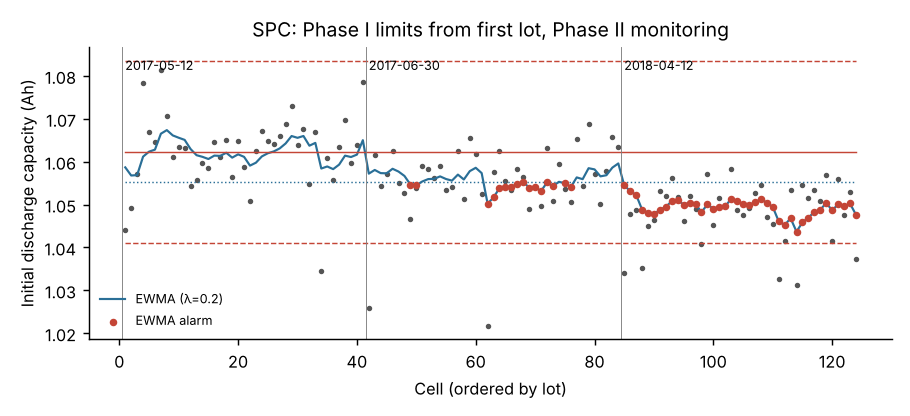
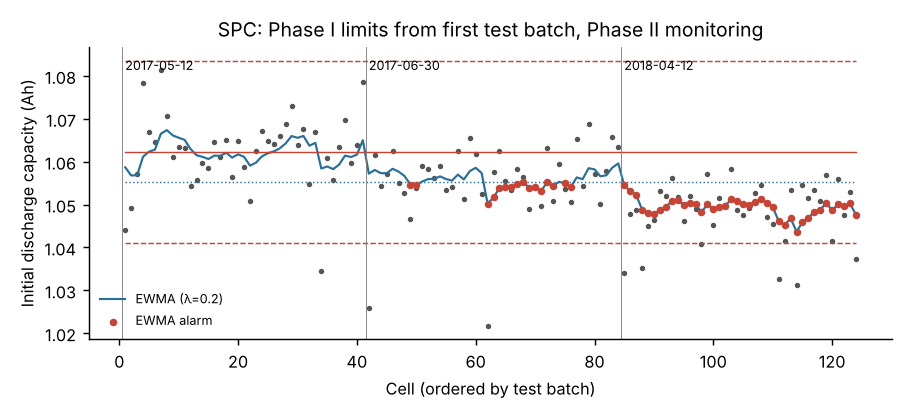
Label cell groups as test batches, not production lots; mark alerting as offline analysis
Claude-Session: https://claude.ai/code/session_01FcKu9sfcQejhM5tvu2SN5i

Changed region(s): [[0.2462, 0.0312, 0.8615, 0.0938], [0.4308, 0.9062, 0.6462, 0.9688]]

diff --git a/src/04_figures_and_tableau.py b/src/04_figures_and_tableau.py
@@ -8,11 +8,11 @@ plt.rcParams.update({"figure.dpi":130,"axes.spines.top":False,"axes.spines.right
 fig,ax=plt.subplots(figsize=(6,4))
 for (lot,g),col in zip(d.groupby("lot"),["#2a6f97","#c44536","#5b8c5a"]):
     x=np.sort(g.cycle_life.values); n=len(x); F=(np.arange(1,n+1)-0.3)/(n+0.4)
-    ax.scatter(np.log(x),np.log(-np.log(1-F)),s=12,color=col,label=f"Lot {lot} (n={n})")
+    ax.scatter(np.log(x),np.log(-np.log(1-F)),s=12,color=col,label=f"Test batch {lot} (n={n})")
     r=wb[wb.lot==lot].iloc[0]; xx=np.linspace(x.min(),x.max(),50)
     ax.plot(np.log(xx),r.shape_beta*(np.log(xx)-np.log(r.scale_eta)),color=col,lw=1)
 ax.axhline(np.log(-np.log(0.9)),ls=":",c="grey"); ax.text(np.log(150),np.log(-np.log(0.9))+0.1,"B10",color="grey")
-ax.set_xlabel("ln(cycles to 80% capacity)"); ax.set_ylabel("ln(-ln(1-F))"); ax.set_title("Weibull probability plot by production lot"); ax.legend(frameon=False)
+ax.set_xlabel("ln(cycles to 80% capacity)"); ax.set_ylabel("ln(-ln(1-F))"); ax.set_title("Weibull probability plot by test batch"); ax.legend(frameon=False)
 fig.tight_layout(); fig.savefig("outputs/figures/weibull_by_lot.png")
 # 2 SPC chart q2
 fig,ax=plt.subplots(figsize=(7,3.2)); s=spc[spc.metric=="q2"]
@@ -21,7 +21,7 @@ for k,ls in [("UCL","--"),("LCL","--"),("CL","-")]: ax.plot(s.seq,s[k],c="#c4453
 ax.plot(s.seq,s.ewma_LCL,c="#2a6f97",ls=":",lw=.8)
 al_=s[s.ewma_alarm==1]; ax.scatter(al_.seq,al_.ewma,c="#c44536",s=10,zorder=3,label="EWMA alarm")
 for lot,g in s.groupby("lot"): ax.axvline(g.seq.min()-.5,c="grey",lw=.5); ax.text(g.seq.min(),s.value.max(),lot,fontsize=7)
-ax.set_ylabel("Initial discharge capacity (Ah)"); ax.set_xlabel("Cell (ordered by lot)"); ax.set_title("SPC: Phase I limits from first lot, Phase II monitoring"); ax.legend(frameon=False,fontsize=7,loc="lower left")
+ax.set_ylabel("Initial discharge capacity (Ah)"); ax.set_xlabel("Cell (ordered by test batch)"); ax.set_title("SPC: Phase I limits from first test batch, Phase II monitoring"); ax.legend(frameon=False,fontsize=7,loc="lower left")
 fig.tight_layout(); fig.savefig("outputs/figures/spc_initial_capacity.png")
 # 3 DOE interaction: cycle life vs Q1 by C1 band
 fig,ax=plt.subplots(figsize=(6,4)); d["C1_band"]=pd.cut(d.C1,[0,4.5,5.5,9],labels=["C1 ≤ 4.5C","4.5–5.5C","> 5.5C"])

diff --git a/README.md b/README.md
@@ -2,28 +2,28 @@
 
 Reliability engineering on two public, real-world data sources:
 
-1. **Cell-level life data**: 124 commercial LFP/graphite cells (A123 APR18650M1A) cycled to failure under 68 fast-charging policies across 3 production/test lots. Source: Severson et al., *Nature Energy* 2019. Per-cell capacity arrays, cycle lives and SI Table 9 (barcode, lot, policy) come from the co-author's public repo [petermattia/revisit-severson-et-al](https://github.com/petermattia/revisit-severson-et-al) (commit `3a77c7d`). Those files were exported from the original [data.matr.io](https://data.matr.io/1/projects/5c48dd2bc625d700019f3204) release.
+1. **Cell-level life data**: 124 commercial LFP/graphite cells (A123 APR18650M1A) cycled to failure under 68 fast-charging policies across 3 test batches (the dataset's `lot` column). Source: Severson et al., *Nature Energy* 2019. Per-cell capacity arrays, cycle lives and SI Table 9 (barcode, batch date, policy) come from the co-author's public repo [petermattia/revisit-severson-et-al](https://github.com/petermattia/revisit-severson-et-al) (commit `3a77c7d`). Those files were exported from the original [data.matr.io](https://data.matr.io/1/projects/5c48dd2bc625d700019f3204) release.
 2. **Field data**: 11,051 NHTSA consumer complaints and 272 recall records for 6 EV nameplates (Chevrolet Bolt EV/EUV, Hyundai Kona Electric, Nissan Leaf, Tesla Model 3 and Model Y, VW ID.4), model years 2011–2023. Pulled from the official NHTSA API (`api.nhtsa.gov`) on Nov 13, 2026, with every model-name variant per year included and duplicates removed by ODI number. Official affected-unit counts come from NHTSA's recall campaign endpoint.
 
 > **Field data caveat:** NHTSA complaints are a public **field-failure proxy**, not warranty returns or RMAs. They have no exposure denominator, they are self-reported, and they spike when a recall is announced. Primary battery definition: a complaint coded to a *propulsion system / traction battery* component. Sensitivity definition: the primary definition plus "battery"/"high voltage" in the narrative.
 
 ## Results
 
-### 1. Weibull life-data analysis by lot (cells)
-| Lot | n | Shape β | Scale η (cycles) | B10 life (95% bootstrap CI) |
+### 1. Weibull life-data analysis by batch (cells)
+| Batch | n | Shape β | Scale η (cycles) | B10 life (95% bootstrap CI) |
 |---|---|---|---|---|
 | All | 124 | 2.23 | 908 | 331 (294–377) |
 | 2017-05-12 | 41 | 2.40 | 1,041 | 407 (365–500) |
 | 2017-06-30 | 43 | 6.68 | 502 | 358 (322–430) |
 | 2018-04-12 | 40 | 3.35 | 1,145 | 585 (533–678) |
 
-- Lots share almost no charging policies, so raw lot comparisons are confounded. A **Weibull AFT model adjusted for the charging factors** gives:
-  - Lot 2017-06-30: 0.55× the characteristic life of the first lot (95% CI 0.48–0.63)
-  - Lot 2018-04-12: 1.20× (CI 1.08–1.34)
+- Batches share almost no charging policies, so raw batch comparisons are confounded. A **Weibull AFT model adjusted for the charging factors** gives:
+  - Batch 2017-06-30: 0.55× the characteristic life of the first batch (95% CI 0.48–0.63)
+  - Batch 2018-04-12: 1.20× (CI 1.08–1.34)
 - Each step-1 C-rate increase of 1C cuts characteristic life to 0.86×.
-- Lot here means test batch, so lot differences can reflect test conditions as well as cell production.
-- β > 1 in every lot indicates wear-out failure.
-- The pooled Weibull fit is rejected (KS p = 0.008) because it mixes lots and policies. Use the per-lot or covariate-adjusted model, not the pooled B10, for decisions.
+- A batch is a test run, not a confirmed production lot, so batch differences can reflect test conditions as well as the cells themselves.
+- β > 1 in every batch indicates wear-out failure.
+- The pooled Weibull fit is rejected (KS p = 0.008) because it mixes batches and policies. Use the per-batch or covariate-adjusted model, not the pooled B10, for decisions.
 
 ### 2. Early-life failure prediction (first 100 cycles)
 Elastic net on 6 early-life features (ΔQ₁₀₀₋₁₀(V) variance/min, capacity, fade slopes). The model is trained on the authors' train split and tested on their two held-out splits.
@@ -31,19 +31,19 @@ Elastic net on 6 early-life features (ΔQ₁₀₀₋₁₀(V) variance/min, cap
 | Split | RMSE (cycles) | MAPE |
 |---|---|---|
 | Test 1 | 124.9 | 13.3% |
-| Test 2 (unseen lot) | 229.2 | 12.7% |
+| Test 2 (unseen batch) | 229.2 | 12.7% |
 | Variance-only baseline, Test 1 / Test 2 | 137.9 / 195.9 | 14.7% / 11.4% |
 
-The variance-only baseline reproduces the published Severson et al. values (138 / 196), which validates the pipeline. The multivariate model is better on Test 1 but **worse on the unseen lot**. That generalization gap is the result to report.
+The variance-only baseline reproduces the published Severson et al. values (138 / 196), which validates the pipeline. The multivariate model is better on Test 1 but **worse on the unseen batch**. That generalization gap is the result to report.
 
-### 3. SPC and lot traceability (cells)
-- **Setup:** Phase I limits (I-MR and EWMA λ = 0.2, plus Western Electric rules 1, 2 and 4) come from the first lot. Phase II monitors the next two lots.
-- **Initial capacity:** the 2018 lot is shifted down about 1.3% (1.048 vs 1.062 Ah). All 40 of its cells trigger EWMA alarms.
-- **Shift vs. life:** that lot nonetheless has the **longest** life. Across all lots, cells flagged on either metric do not have shorter life (median 825 vs 651 cycles, Mann-Whitney p = 0.14).
+### 3. SPC and batch traceability (cells)
+- **Setup:** Phase I limits (I-MR and EWMA λ = 0.2, plus Western Electric rules 1, 2 and 4) come from the first batch. Phase II monitors the next two batches.
+- **Initial capacity:** the 2018 batch is shifted down about 1.3% (1.048 vs 1.062 Ah). All 40 of its cells trigger EWMA alarms.
+- **Shift vs. life:** that batch nonetheless has the **longest** life. Across all batches, cells flagged on either metric do not have shorter life (median 825 vs 651 cycles, Mann-Whitney p = 0.14).
 - **Takeaway:** an incoming capacity shift is detectable but did not predict life here. The policy-adjusted early-degradation residual is the life-relevant metric.
 
 ### 4. DOE / response surface on charging factors
-- **Design:** 68 two-step policies, C1(Q1%)-C2, with 27 replicated. Lot is treated as a blocking factor.
+- **Design:** 68 two-step policies, C1(Q1%)-C2, with 27 replicated. Batch is treated as a blocking factor.
 - **Fit:** a quadratic response surface on log₁₀(cycle life) gives R² = 0.83 (adjusted 0.81). The lack-of-fit test passes against pure error from the replicates (F = 1.07, p = 0.40).
 - **Significant terms:** the **C1×Q1** interaction (p < 0.001), C1×C2 (p = 0.02), Q1×C2 (p = 0.01), plus the C1 and C2 main effects.
 - **Best 10-minute policy:** searching only near tested policies, the model's best 0–80% fast charge is about 4.9C to 75% SOC, then 3C, with predicted life ≈ 1,030 cycles. The best observed 10-minute policies average 1,016–1,116 cycles.
@@ -57,12 +57,12 @@ The variance-only baseline reproduces the published Severson et al. values (138 
   - Primary window, post period ending Jul 2024 (before the Leaf's own battery recall): Bolt battery complaints fell **56%** (0.82 to 0.36 a month), while the Leaf rose 0.36 to 0.48. Rate ratio 0.33 (95% CI 0.10–1.09, p = 0.07); broad definition 0.34 (CI 0.15–0.80, p = 0.01).
   - Bolt battery-fire complaints (all model years, broad definition): 12 in 2020–21, then 1 in 2022 and 1 in all of 2023–2025.
   - The full window to Dec 2025 gives 0.11, but that is inflated by the Leaf's own recall spike in the control group, so it is reported as a sensitivity check only.
-- **Automated alerting:**
+- **Control-chart alerting** (a script run on downloaded data, not a deployed monitoring system):
   - Rule: monthly battery complaints by filed month against a c-chart (Poisson 99.865% limit on a trailing 12-month baseline) plus an EWMA. This raised 14 alerts in 577 nameplate-months.
   - Only **3 of 16** battery recalls had an alert in the 12 months before them, and all 3 were follow-on recalls after an earlier recall of the same vehicle family. Complaint volume alone gave **no independent early warning**. It is useful for post-recall monitoring, not for detecting a new issue.
 
 ## Figures
-`outputs/figures/`: Weibull probability plot by lot, SPC chart, DOE interaction, corrective-action check.
+`outputs/figures/`: Weibull probability plot by batch, SPC chart, DOE interaction, corrective-action check.
 
 ## Tableau
 `tableau/` holds tidy extracts and `DASHBOARD_SPEC.md` (sheet-by-sheet build).
@@ -79,5 +79,5 @@ The NHTSA pull (browser-side `fetch` against `api.nhtsa.gov`) is saved in `data/
 
 ## Limitations
 - Complaints are not returns. There is no sales-volume denominator except where a full-fleet recall gives one (Bolt).
-- "Lot" is the authors' test batch. The cells are one commercial cell type, so this is not supplier traceability across vendors.
+- Batches are the authors' test runs, not confirmed production lots, and all cells are one commercial cell type. This shows batch-level traceability methods, not supplier or production-lot traceability.
 - The DOE analyzes the authors' designed policy set. I did not choose the design points.

diff --git a/tableau/DASHBOARD_SPEC.md b/tableau/DASHBOARD_SPEC.md
@@ -1,16 +1,16 @@
 # Tableau dashboard build spec — Battery Cell Reliability & Field Failure Monitoring
 
-Connect Tableau Desktop / Tableau Public to the CSVs in this folder (Text file connector). One data source per file; no joins needed.
+Connect Tableau Desktop / Tableau Public to the CSVs in this folder (Text file connector). One data source per file; no joins needed. Column `lot` = test batch date (rename its alias to **Test batch** in Tableau).
 
-## Sheet 1 — Weibull life by lot  (`cells.csv`, `weibull_by_lot.csv`)
-- Calculated fields: `ln_life = LN([cycle_life])`; median-rank `F = (INDEX()-0.3)/(SIZE()+0.4)` computed along cells sorted by cycle_life, partitioned by lot; `weibull_y = LN(-LN(1-[F]))`
+## Sheet 1 — Weibull life by test batch  (`cells.csv`, `weibull_by_lot.csv`)
+- Calculated fields: `ln_life = LN([cycle_life])`; median-rank `F = (INDEX()-0.3)/(SIZE()+0.4)` computed along cells sorted by cycle_life, partitioned by `lot`; `weibull_y = LN(-LN(1-[F]))`
 - Columns `ln_life`, Rows `weibull_y`, Color `lot`. Add a reference line at y = LN(-LN(0.9)) labelled B10.
 - Tooltip: barcode, policy, cycle_life.
 
 ## Sheet 2 — SPC: initial capacity  (`spc_cells.csv`, filter `metric = "q2"`)
 - Columns `seq`, Rows dual axis: `value` (circle) and `ewma` (line); synchronize axes.
 - Reference lines from fields `UCL`, `CL`, `LCL` (average per pane), `ewma_UCL`, `ewma_LCL`.
-- Color `ewma_alarm` (1 = red). Detail `lot`; add `lot` as a filter and as a vertical reference band per lot.
+- Color `ewma_alarm` (1 = red). Detail `lot`; add `lot` as a filter and as a vertical reference band per test batch.
 
 ## Sheet 3 — DOE interaction  (`cells.csv`)
 - Columns `Q1`, Rows `cycle_life` (log axis), Color = bin of `C1` (≤4.5, 4.5–5.5, >5.5), trend lines per color (exponential/log model).
